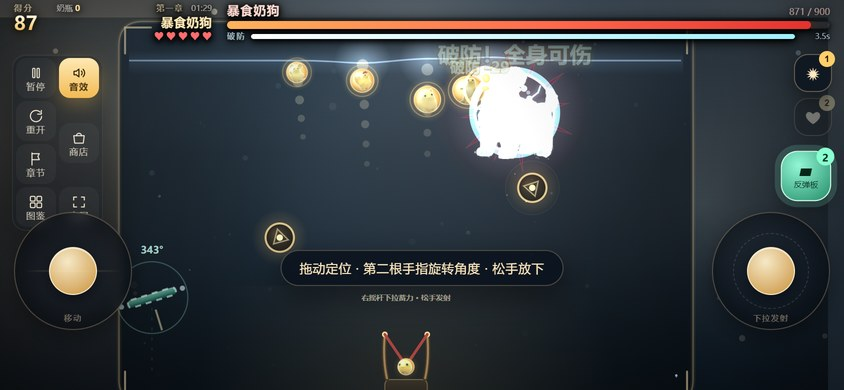
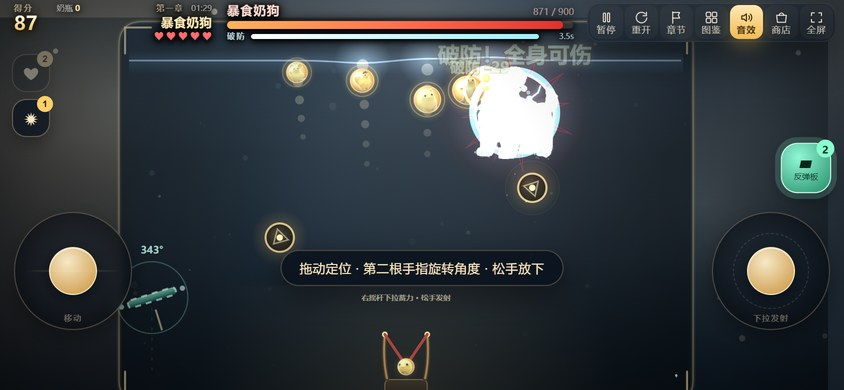
fix(横屏): 功能键放顶部一排 + 血条缩到 42~49%，彻底不碰摇杆
按「按键放顶部、血条缩短」来收口：
- 7 个功能键回到顶部右侧一排（33x34，整排结束在 y=42），
  离摇杆（212/263 起）有 170px，物理上不可能遮挡
- HUD 右侧留 258px，Boss 血条 49%（960x441）/ 42%（844x390）
- 道具栏移到左栏竖排，把左边那块空白用起来（左右两栏对称）
- 反弹板按钮在右栏、右摇杆上方，留 20px 空隙；没买就隐藏
- 场地仍贴到屏幕最底部（留 4px）

断言：血条宽度 <=55%、dock 底不得越过场地顶、dock 不碰左摇杆。27 项全通过。

diff --git a/index.html b/index.html
@@ -648,10 +648,10 @@ body.playing #bPlate.arm{
    所以横屏把 HUD 压成"一条横带"：左=得分/奶瓶，中=Boss 血条+破防，右=章节/生命。
    ========================================================= */
 @media (orientation:landscape){
-  /* 功能键已挪到左侧竖栏，HUD 恢复通栏，不再让右边空一大块 */
+  /* 右侧留 258px 给「道具栏」，Boss 血条因此只占约 42%，不再横贯全屏 */
   #hud{
-    left:0;right:0;transform:none;width:auto;
-    top:calc(var(--sat) + 2px);padding:0 10px;
+    left:0;right:258px;transform:none;width:auto;
+    top:calc(var(--sat) + 2px);padding:0 8px 0 10px;
     flex-direction:row;align-items:flex-start;gap:7px;
   }
   .hud-row{flex:0 0 auto;gap:6px;align-items:stretch}
@@ -688,21 +688,24 @@ body.playing #bPlate.arm{
   /* ---- 6 个功能键搬到右上角竖排（原来压在底部中央，紧挨弹弓、容易误触） ----
      竖排会挡住右摇杆，所以排成 2 列 × 3 行。 */
   /* 7 个功能键改成左侧竖栏（2 列 × 4 行），把左栏那块空白填掉 */
+  /* ---- 7 个功能键：顶部一排，与 HUD 同高 ----
+     放顶部是硬要求：竖栏往下排会一路怼到摇杆上（之前 4 行排到 y=252 就被摇杆盖住了）。
+     现在整排结束在 y≈44，离摇杆（212 起）有 168px，物理上不可能遮挡。 */
   #dock{
-    left:12px;right:auto;bottom:auto;transform:none;
-    top:calc(var(--sat) + 54px);
-    width:auto;padding:3px;gap:3px;border-radius:14px;
-    flex-direction:column;flex-wrap:wrap;max-height:178px;
+    left:auto;right:8px;bottom:auto;transform:none;
+    top:calc(var(--sat) + 2px);
+    width:auto;padding:2px;gap:2px;border-radius:13px;
+    flex-direction:row;flex-wrap:nowrap;
     background:rgba(8,14,24,.34);border-color:rgba(255,255,255,.055);
     backdrop-filter:blur(10px);-webkit-backdrop-filter:blur(10px);
   }
   .dock-btn{
-    flex:0 0 auto;width:40px;height:40px;
-    padding:4px 0 3px;border-radius:11px;gap:1px;
-    background:rgba(255,255,255,.035);border:none;
+    flex:0 0 auto;width:33px;height:34px;
+    padding:2px 0 1px;border-radius:9px;gap:0;
+    background:rgba(255,255,255,.03);border:none;
   }
-  .dock-btn svg{width:16px;height:16px}
-  .dock-btn .tx{font-size:7.5px;letter-spacing:0;line-height:1.1}
+  .dock-btn svg{width:15px;height:15px}
+  .dock-btn .tx{font-size:6.5px;letter-spacing:0;line-height:1.05}
 
   /* ---- 摇杆 ---- */
   .stick{width:118px;height:118px;bottom:calc(var(--sab) + 60px)}
@@ -712,14 +715,17 @@ body.playing #bPlate.arm{
   #stickL{left:14px}
   #stickR{right:14px}
 
-  /* 道具栏挪到右栏，和左边的功能键对称，两边都不空 */
-  #itemBar{top:calc(var(--sat) + 54px);bottom:auto;left:auto;right:12px;gap:6px}
+  /* 道具栏放右上角横排：正好填住血条缩短后空出来的那一块 */
+  /* ---- 道具栏：左栏竖排 ----
+     把左栏那块空白用起来，和右栏的反弹板+摇杆左右对称。 */
+  #itemBar{top:calc(var(--sat) + 54px);bottom:auto;left:12px;right:auto;
+           flex-direction:column;gap:7px}
 
-  /* ---- 反弹板按钮：右侧栏、右摇杆上方 ----
+  /* ---- 反弹板按钮：右侧栏、右摇杆上方，留 20px 空隙 ----
      不占地、不挡框；没有存货时整个隐藏（见 refreshPlateBtn 的 .empty）。 */
   #bPlate{
     left:auto;right:14px;margin-left:0;
-    top:auto;bottom:calc(var(--sab) + 60px + 118px + 12px);
+    top:auto;bottom:calc(var(--sab) + 60px + 118px + 20px);
     width:48px;height:48px;border-radius:16px;
   }
   #bPlate .ico{font-size:13px}

diff --git a/src/parts/style.css b/src/parts/style.css
@@ -639,10 +639,10 @@ body.playing #bPlate.arm{
    所以横屏把 HUD 压成"一条横带"：左=得分/奶瓶，中=Boss 血条+破防，右=章节/生命。
    ========================================================= */
 @media (orientation:landscape){
-  /* 功能键已挪到左侧竖栏，HUD 恢复通栏，不再让右边空一大块 */
+  /* 右侧留 258px 给「道具栏」，Boss 血条因此只占约 42%，不再横贯全屏 */
   #hud{
-    left:0;right:0;transform:none;width:auto;
-    top:calc(var(--sat) + 2px);padding:0 10px;
+    left:0;right:258px;transform:none;width:auto;
+    top:calc(var(--sat) + 2px);padding:0 8px 0 10px;
     flex-direction:row;align-items:flex-start;gap:7px;
   }
   .hud-row{flex:0 0 auto;gap:6px;align-items:stretch}
@@ -679,21 +679,24 @@ body.playing #bPlate.arm{
   /* ---- 6 个功能键搬到右上角竖排（原来压在底部中央，紧挨弹弓、容易误触） ----
      竖排会挡住右摇杆，所以排成 2 列 × 3 行。 */
   /* 7 个功能键改成左侧竖栏（2 列 × 4 行），把左栏那块空白填掉 */
+  /* ---- 7 个功能键：顶部一排，与 HUD 同高 ----
+     放顶部是硬要求：竖栏往下排会一路怼到摇杆上（之前 4 行排到 y=252 就被摇杆盖住了）。
+     现在整排结束在 y≈44，离摇杆（212 起）有 168px，物理上不可能遮挡。 */
   #dock{
-    left:12px;right:auto;bottom:auto;transform:none;
-    top:calc(var(--sat) + 54px);
-    width:auto;padding:3px;gap:3px;border-radius:14px;
-    flex-direction:column;flex-wrap:wrap;max-height:178px;
+    left:auto;right:8px;bottom:auto;transform:none;
+    top:calc(var(--sat) + 2px);
+    width:auto;padding:2px;gap:2px;border-radius:13px;
+    flex-direction:row;flex-wrap:nowrap;
     background:rgba(8,14,24,.34);border-color:rgba(255,255,255,.055);
     backdrop-filter:blur(10px);-webkit-backdrop-filter:blur(10px);
   }
   .dock-btn{
-    flex:0 0 auto;width:40px;height:40px;
-    padding:4px 0 3px;border-radius:11px;gap:1px;
-    background:rgba(255,255,255,.035);border:none;
+    flex:0 0 auto;width:33px;height:34px;
+    padding:2px 0 1px;border-radius:9px;gap:0;
+    background:rgba(255,255,255,.03);border:none;
   }
-  .dock-btn svg{width:16px;height:16px}
-  .dock-btn .tx{font-size:7.5px;letter-spacing:0;line-height:1.1}
+  .dock-btn svg{width:15px;height:15px}
+  .dock-btn .tx{font-size:6.5px;letter-spacing:0;line-height:1.05}
 
   /* ---- 摇杆 ---- */
   .stick{width:118px;height:118px;bottom:calc(var(--sab) + 60px)}
@@ -703,14 +706,17 @@ body.playing #bPlate.arm{
   #stickL{left:14px}
   #stickR{right:14px}
 
-  /* 道具栏挪到右栏，和左边的功能键对称，两边都不空 */
-  #itemBar{top:calc(var(--sat) + 54px);bottom:auto;left:auto;right:12px;gap:6px}
+  /* 道具栏放右上角横排：正好填住血条缩短后空出来的那一块 */
+  /* ---- 道具栏：左栏竖排 ----
+     把左栏那块空白用起来，和右栏的反弹板+摇杆左右对称。 */
+  #itemBar{top:calc(var(--sat) + 54px);bottom:auto;left:12px;right:auto;
+           flex-direction:column;gap:7px}
 
-  /* ---- 反弹板按钮：右侧栏、右摇杆上方 ----
+  /* ---- 反弹板按钮：右侧栏、右摇杆上方，留 20px 空隙 ----
      不占地、不挡框；没有存货时整个隐藏（见 refreshPlateBtn 的 .empty）。 */
   #bPlate{
     left:auto;right:14px;margin-left:0;
-    top:auto;bottom:calc(var(--sab) + 60px + 118px + 12px);
+    top:auto;bottom:calc(var(--sab) + 60px + 118px + 20px);
     width:48px;height:48px;border-radius:16px;
   }
   #bPlate .ico{font-size:13px}

diff --git a/奶系弹珠_弹射讨伐.html b/奶系弹珠_弹射讨伐.html
@@ -648,10 +648,10 @@ body.playing #bPlate.arm{
    所以横屏把 HUD 压成"一条横带"：左=得分/奶瓶，中=Boss 血条+破防，右=章节/生命。
    ========================================================= */
 @media (orientation:landscape){
-  /* 功能键已挪到左侧竖栏，HUD 恢复通栏，不再让右边空一大块 */
+  /* 右侧留 258px 给「道具栏」，Boss 血条因此只占约 42%，不再横贯全屏 */
   #hud{
-    left:0;right:0;transform:none;width:auto;
-    top:calc(var(--sat) + 2px);padding:0 10px;
+    left:0;right:258px;transform:none;width:auto;
+    top:calc(var(--sat) + 2px);padding:0 8px 0 10px;
     flex-direction:row;align-items:flex-start;gap:7px;
   }
   .hud-row{flex:0 0 auto;gap:6px;align-items:stretch}
@@ -688,21 +688,24 @@ body.playing #bPlate.arm{
   /* ---- 6 个功能键搬到右上角竖排（原来压在底部中央，紧挨弹弓、容易误触） ----
      竖排会挡住右摇杆，所以排成 2 列 × 3 行。 */
   /* 7 个功能键改成左侧竖栏（2 列 × 4 行），把左栏那块空白填掉 */
+  /* ---- 7 个功能键：顶部一排，与 HUD 同高 ----
+     放顶部是硬要求：竖栏往下排会一路怼到摇杆上（之前 4 行排到 y=252 就被摇杆盖住了）。
+     现在整排结束在 y≈44，离摇杆（212 起）有 168px，物理上不可能遮挡。 */
   #dock{
-    left:12px;right:auto;bottom:auto;transform:none;
-    top:calc(var(--sat) + 54px);
-    width:auto;padding:3px;gap:3px;border-radius:14px;
-    flex-direction:column;flex-wrap:wrap;max-height:178px;
+    left:auto;right:8px;bottom:auto;transform:none;
+    top:calc(var(--sat) + 2px);
+    width:auto;padding:2px;gap:2px;border-radius:13px;
+    flex-direction:row;flex-wrap:nowrap;
     background:rgba(8,14,24,.34);border-color:rgba(255,255,255,.055);
     backdrop-filter:blur(10px);-webkit-backdrop-filter:blur(10px);
   }
   .dock-btn{
-    flex:0 0 auto;width:40px;height:40px;
-    padding:4px 0 3px;border-radius:11px;gap:1px;
-    background:rgba(255,255,255,.035);border:none;
+    flex:0 0 auto;width:33px;height:34px;
+    padding:2px 0 1px;border-radius:9px;gap:0;
+    background:rgba(255,255,255,.03);border:none;
   }
-  .dock-btn svg{width:16px;height:16px}
-  .dock-btn .tx{font-size:7.5px;letter-spacing:0;line-height:1.1}
+  .dock-btn svg{width:15px;height:15px}
+  .dock-btn .tx{font-size:6.5px;letter-spacing:0;line-height:1.05}
 
   /* ---- 摇杆 ---- */
   .stick{width:118px;height:118px;bottom:calc(var(--sab) + 60px)}
@@ -712,14 +715,17 @@ body.playing #bPlate.arm{
   #stickL{left:14px}
   #stickR{right:14px}
 
-  /* 道具栏挪到右栏，和左边的功能键对称，两边都不空 */
-  #itemBar{top:calc(var(--sat) + 54px);bottom:auto;left:auto;right:12px;gap:6px}
+  /* 道具栏放右上角横排：正好填住血条缩短后空出来的那一块 */
+  /* ---- 道具栏：左栏竖排 ----
+     把左栏那块空白用起来，和右栏的反弹板+摇杆左右对称。 */
+  #itemBar{top:calc(var(--sat) + 54px);bottom:auto;left:12px;right:auto;
+           flex-direction:column;gap:7px}
 
-  /* ---- 反弹板按钮：右侧栏、右摇杆上方 ----
+  /* ---- 反弹板按钮：右侧栏、右摇杆上方，留 20px 空隙 ----
      不占地、不挡框；没有存货时整个隐藏（见 refreshPlateBtn 的 .empty）。 */
   #bPlate{
     left:auto;right:14px;margin-left:0;
-    top:auto;bottom:calc(var(--sab) + 60px + 118px + 12px);
+    top:auto;bottom:calc(var(--sab) + 60px + 118px + 20px);
     width:48px;height:48px;border-radius:16px;
   }
   #bPlate .ico{font-size:13px}
